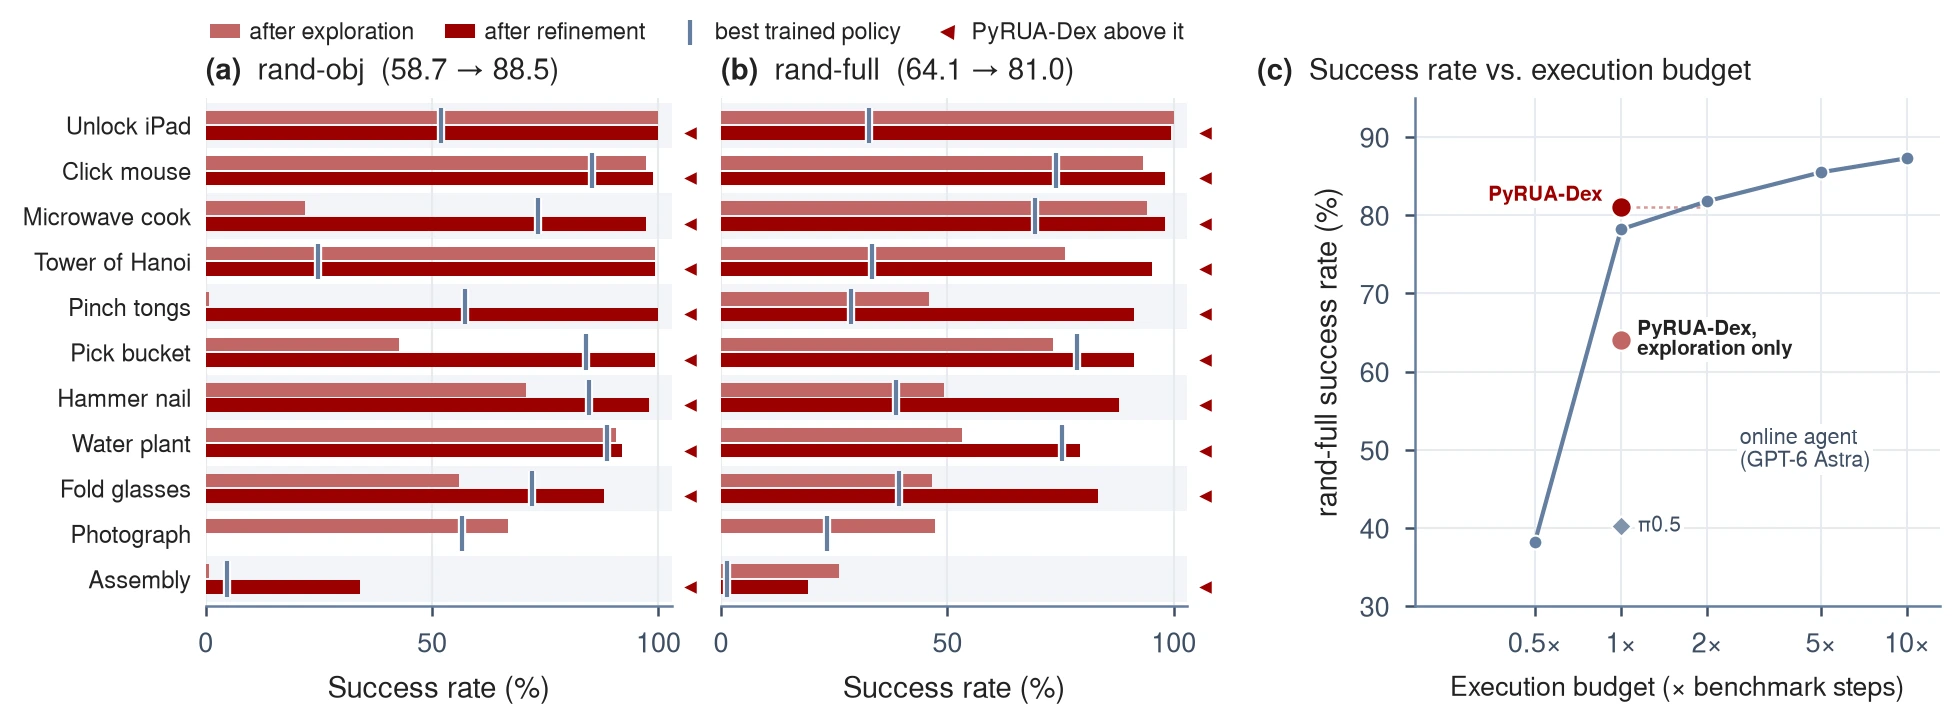
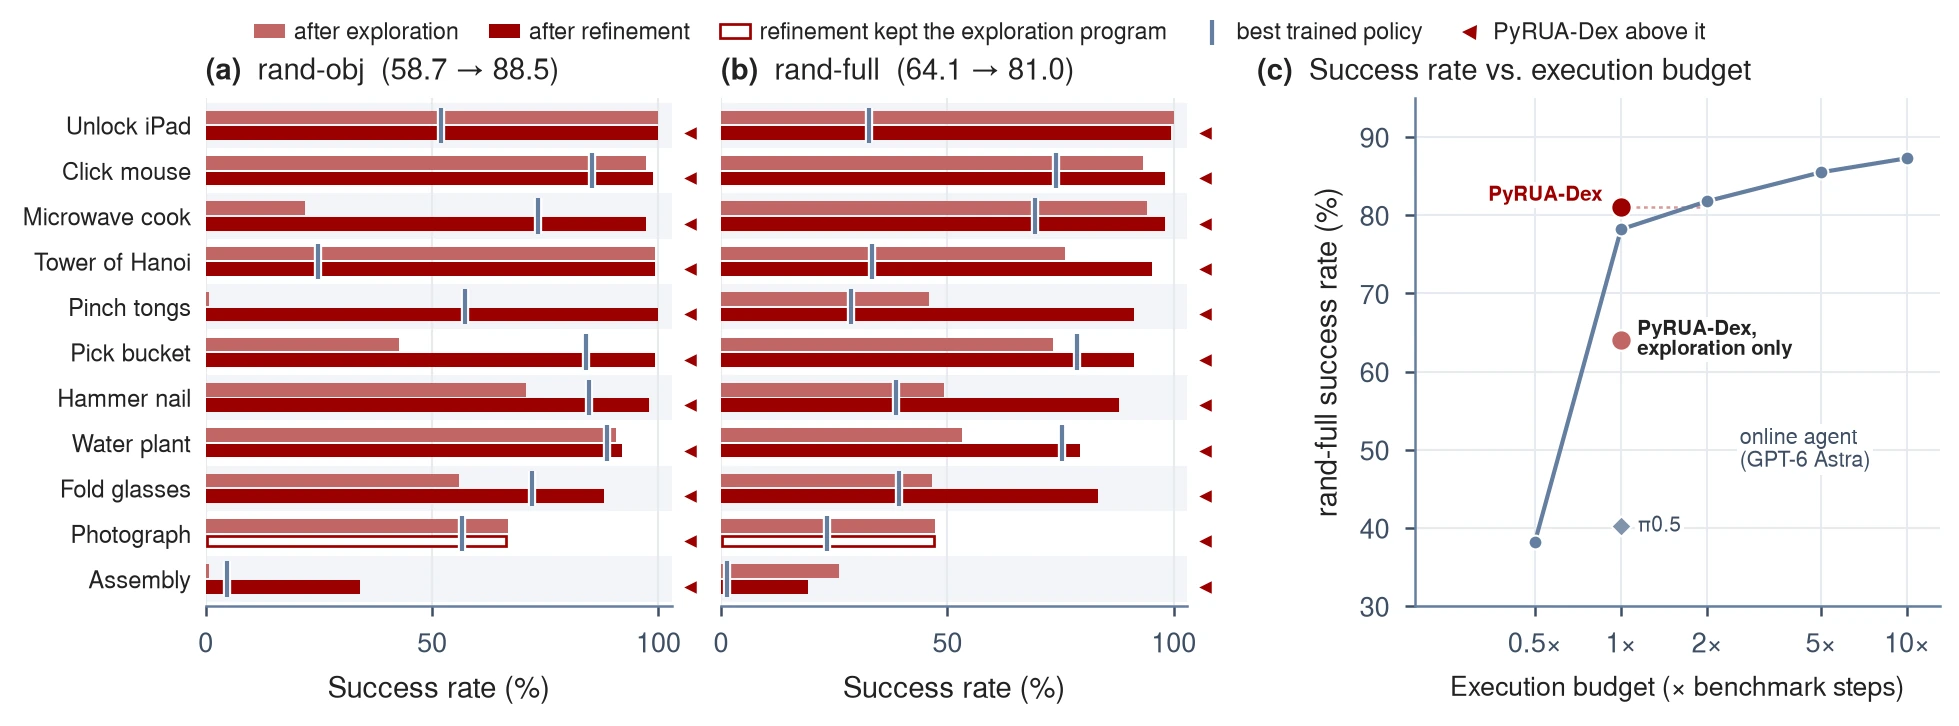
PyRUA-Dex page: the photograph task was refined and kept its program
The page said, as the paper did since 2026-11-24, that refinement did not run on DexJoCo's photograph task.
The round's records show it ran (round r02, 2026-11-20): its program completed 16 of the 32 validation
layouts against 17 for the program from exploration and was not installed, so the program from exploration
is also the final one. The paper is corrected and the page follows:

- fig-dexjoco.webp: the photograph row's second bar is hollow ("refinement kept the exploration program",
  a new key entry, as in the per-task Bench2Dex figure) and has a triangle in both settings
- its caption: "Hollow bar: refinement kept the program from exploration (photograph). Triangles:
  PyRUA-Dex above it, on all 11 tasks."
- the per-task DexJoCo table's note: "*Refinement kept the program from exploration." (was "Not refined")

No number on the page changes.

Changed region(s): [[0.0934, 0.0303, 0.8719, 0.0606], [0.0934, 0.7273, 0.2802, 0.7576], [0.3425, 0.7273, 0.4982, 0.7576]]

diff --git a/PyRUA-Dex/index.html b/PyRUA-Dex/index.html
@@ -718,8 +718,8 @@
     </div>
 
     <figure class="fig rv" style="margin-top:22px">
-      <a class="zoom" href="static/images/paper/fig-dexjoco.webp?v=20261125"><img src="static/images/paper/fig-dexjoco.webp?v=20261125" alt="DexJoCo results per task: success rate of the programs after exploration and after refinement, two bars per task, under rand-obj and rand-full, and rand-full success rate against the execution budget" width="1959" height="726" loading="lazy"></a>
-      <figcaption><b>DexJoCo results per task.</b> (a) rand-obj and (b) rand-full success rate: the program after exploration (light bar) above the program after refinement (dark bar), with the averages in the panel titles, and the best trained policy on the task (tick). Triangles: PyRUA-Dex above it, on all ten tasks that were refined; the photograph task was not refined and has one bar. (c) rand-full success rate against the execution budget; the frozen programs spend no tokens at test time, the dotted line marks where the online agent matches them, and the diamond is the best trained policy, π<sub>0.5</sub>.</figcaption>
+      <a class="zoom" href="static/images/paper/fig-dexjoco.webp?v=20261126"><img src="static/images/paper/fig-dexjoco.webp?v=20261126" alt="DexJoCo results per task: success rate of the programs after exploration and after refinement, two bars per task, under rand-obj and rand-full, and rand-full success rate against the execution budget" width="1959" height="726" loading="lazy"></a>
+      <figcaption><b>DexJoCo results per task.</b> (a) rand-obj and (b) rand-full success rate: the program after exploration (light bar) above the program after refinement (dark bar), with the averages in the panel titles, and the best trained policy on the task (tick). Hollow bar: refinement kept the program from exploration (photograph). Triangles: PyRUA-Dex above it, on all 11 tasks. (c) rand-full success rate against the execution budget; the frozen programs spend no tokens at test time, the dotted line marks where the online agent matches them, and the diamond is the best trained policy, π<sub>0.5</sub>.</figcaption>
     </figure>
 
     <div class="card rs-card rv">
@@ -743,7 +743,7 @@
             <tr><td><b>Average</b></td><td></td><td class="num">58.7</td><td class="num"><b>88.5</b></td><td class="num">54.1 (π<sub>0.5</sub>)</td><td class="num">64.1</td><td class="num"><b>81.0</b></td><td class="num">40.3 (π<sub>0.5</sub>)</td></tr>
           </tbody>
         </table>
-        <p class="dj-note">Mean over three seeds of 50 episodes. Trained: the best of the benchmark's five trained policies on the task. <sup>*</sup>Not refined. <sup>†</sup>With a fallback to the fixed camera when the randomized one is absent; without it, 0.0 under rand-obj, and the rand-obj averages would be 49.8 and 79.5 instead of 58.7 and 88.5.</p>
+        <p class="dj-note">Mean over three seeds of 50 episodes. Trained: the best of the benchmark's five trained policies on the task. <sup>*</sup>Refinement kept the program from exploration. <sup>†</sup>With a fallback to the fixed camera when the randomized one is absent; without it, 0.0 under rand-obj, and the rand-obj averages would be 49.8 and 79.5 instead of 58.7 and 88.5.</p>
       </details>
     </div>
   </div>
